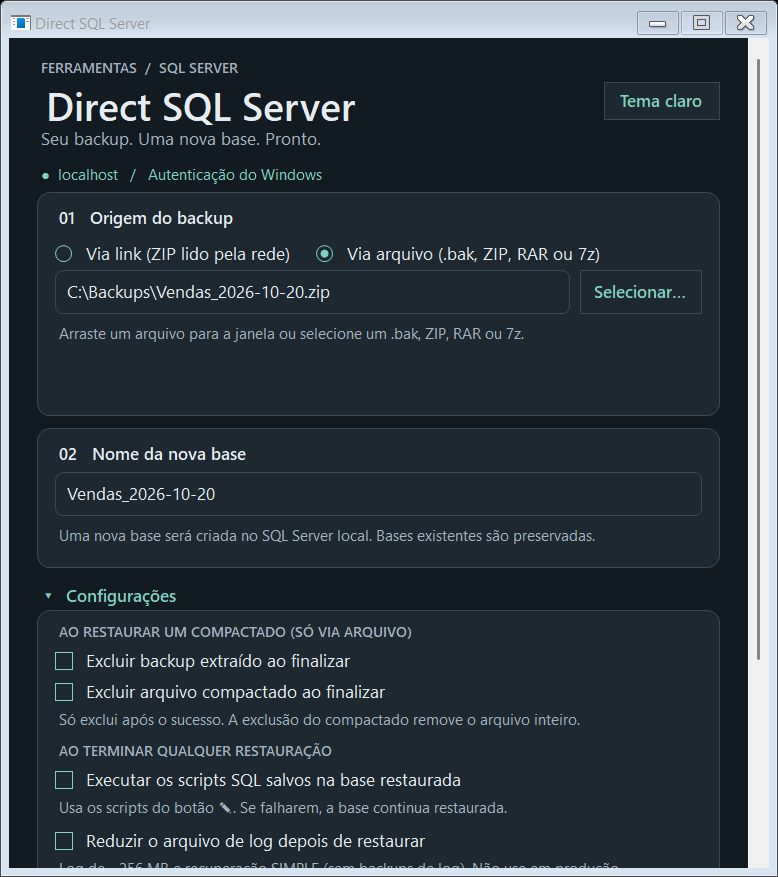
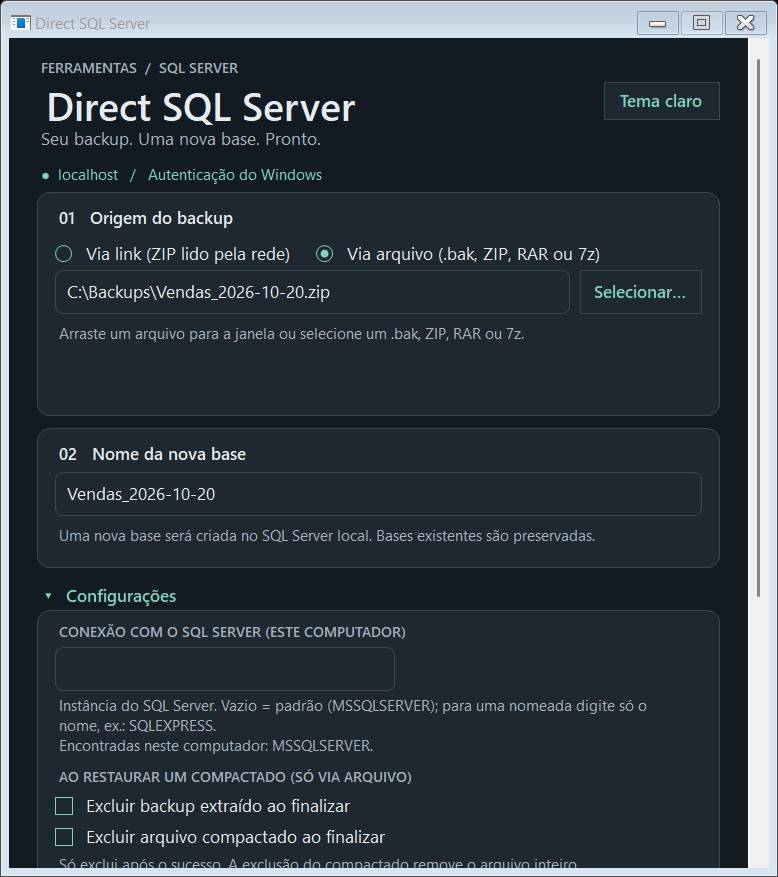
Docs: named SQL Server instance support

Changed region(s): [[0.0617, 0.7081, 0.8329, 1.0], [0.9563, 0.6773, 0.9871, 0.7389]]

diff --git a/README.md b/README.md
@@ -63,7 +63,7 @@ Se o arquivo `.bak` contiver vários backups completos da mesma base, o app usa 
 |---|---|
 | Sistema | Windows 10 ou 11, 64 bits |
 | .NET | **.NET 9 Desktop Runtime**. O instalador baixa e instala sozinho se você não tiver. |
-| SQL Server | Instância **padrão local** (`MSSQLSERVER`), acessível como `localhost` |
+| SQL Server | Instância **local**, padrão (`MSSQLSERVER`) ou **nomeada** (ex.: `SQLEXPRESS`), com o protocolo **Shared Memory** habilitado |
 | Permissões | Seu usuário do Windows precisa poder **restaurar bancos** e **listar os bancos existentes** |
 | Espaço em disco | O tamanho do backup extraído (se vier de um compactado) mais o espaço da nova base |
 
@@ -264,6 +264,18 @@ Com **Via link** selecionado, o app restaura **direto de um link para um ZIP**, 
 
 ## Configurações (opções da restauração)
 
+### Instância do SQL Server
+
+No topo de **Configurações** há o campo **Instância do SQL Server**.
+
+- **Vazio** usa a instância **padrão** (`MSSQLSERVER`). É o que a maioria dos computadores tem.
+- Para uma instância **nomeada**, digite só o nome, por exemplo `SQLEXPRESS`. A faixa verde no alto passa a mostrar `localhost\SQLEXPRESS`.
+- O campo mostra as instâncias encontradas neste computador. Se não existir instância padrão e houver **uma só** instância nomeada, o app já a usa sozinho e avisa.
+- O valor é lembrado depois de reiniciar o PC. Vale para a restauração, via link (o dispositivo virtual usa o mesmo nome) e para os scripts SQL.
+- O nome aceita letras, números e `_ $ # @`, até 16 caracteres.
+
+### Opções de restauração
+
 Todas as opções ficam sob o título **Configurações**, entre o nome da base e o botão **Restaurar base**. Clique em **▸ Configurações** para expandir e em **▾ Configurações** para recolher. Recolhido (o padrão), o título mostra quantas opções estão ativas, por exemplo "▸ Configurações · 2 opções ativas".
 
 <p align="center">
@@ -362,7 +374,7 @@ Se o serviço do SQL Server não tem permissão para ler o backup (comum em Down
 | Sintoma | O que fazer |
 |---|---|
 | **"Já existe uma base chamada…"** | Escolha outro nome. O app nunca substitui uma base existente. Se quiser trocar, renomeie ou exclua a antiga no SSMS antes. |
-| **Não conecta ao SQL Server** | O app usa a instância padrão local (`MSSQLSERVER`). Confirme que o serviço está iniciado e que o seu usuário do Windows tem permissão para restaurar bancos. |
+| **"Não foi possível conectar ao SQL Server local"** | 1) Veja o nome do serviço em `services.msc`: **SQL Server (MSSQLSERVER)** é a instância padrão; **SQL Server (SQLEXPRESS)** (ou outro nome) é uma instância **nomeada**. Para uma nomeada, abra **Configurações** e digite o nome em **Instância do SQL Server** (ex.: `SQLEXPRESS`). 2) Confirme que o serviço está iniciado e que o **Shared Memory** está habilitado no *SQL Server Configuration Manager → Configuração de Rede do SQL Server → Protocolos* (depois de habilitar, reinicie o serviço). 3) Confirme que o seu usuário do Windows pode restaurar bancos. O SSMS pode abrir normalmente e o app não, porque o SSMS aceita outros nomes e protocolos. |
 | **Backup de versão mais nova** | O SQL Server não restaura backup de versão superior à instalada. Atualize o SQL Server local ou restaure em outro servidor. |
 | **Backup criptografado** | Exige certificado ou chave já disponível no servidor. |
 | **Compactado com senha ou formato desconhecido** | O app mostra uma mensagem de erro e preserva o arquivo. Extraia manualmente e selecione o `.bak`. |
@@ -385,7 +397,7 @@ Isso remove o app, os atalhos e o menu do Explorer. **Suas bases, seus backups e
 
 - Restaura **backup completo** de um arquivo `.bak`, com dados e logs convencionais (MDF/NDF/LDF). **Diferenciais e backups de log não são aplicados.**
 - Para backup **dividido em vários arquivos**, `.bak` com backups de **bases diferentes**, FILESTREAM e arquivos especiais, snapshots e cadeias de recuperação, use o SSMS.
-- Só **instância padrão local** (`MSSQLSERVER`).
+- Só instâncias **deste computador** (padrão ou nomeada, por memória compartilhada). Servidores remotos não são suportados.
 - Compactados dentro de outros compactados não são percorridos (exceto TAR comprimido, como `.tar.gz`).
 - Arquivos GZ, BZ2 e XZ sem tamanho conhecido precisam ser lidos por inteiro antes da extração.
 - O app não é assinado digitalmente (veja o aviso do Windows na instalação).

diff --git a/CHANGELOG.md b/CHANGELOG.md
@@ -1,5 +1,13 @@
 # Notas de versão
 
+## 1.11.4
+
+### Instância nomeada do SQL Server
+- Antes o app só conectava na instância **padrão** (`MSSQLSERVER`), então falhava em computadores com `SQLEXPRESS` ou outra instância nomeada, mesmo com o SSMS abrindo normalmente. Agora há o campo **Instância do SQL Server** em **Configurações**: vazio = padrão; ou digite o nome (ex.: `SQLEXPRESS`).
+- O app mostra as instâncias encontradas e, se não houver instância padrão e existir uma só nomeada, usa essa automaticamente e avisa.
+- Vale para restauração via arquivo, via link (o dispositivo virtual recebe o nome da instância), scripts SQL e redução do log. A conta de serviço usada nas pastas temporárias também acompanha a instância (`MSSQL$NOME`).
+- A mensagem "Não foi possível conectar ao SQL Server local" agora orienta a conferir o Shared Memory e a informar a instância nomeada.
+
 ## 1.11.2
 
 ### Correções
